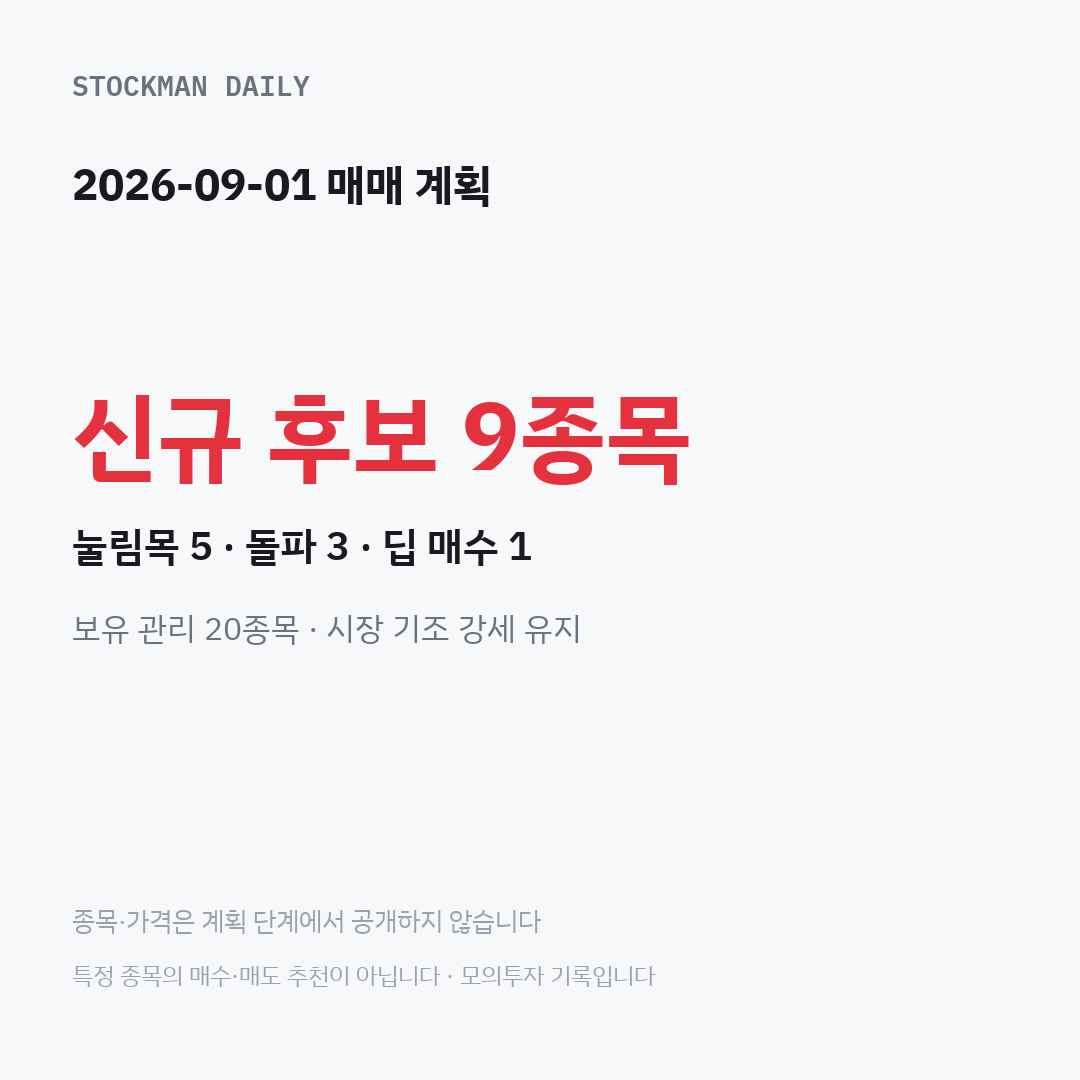
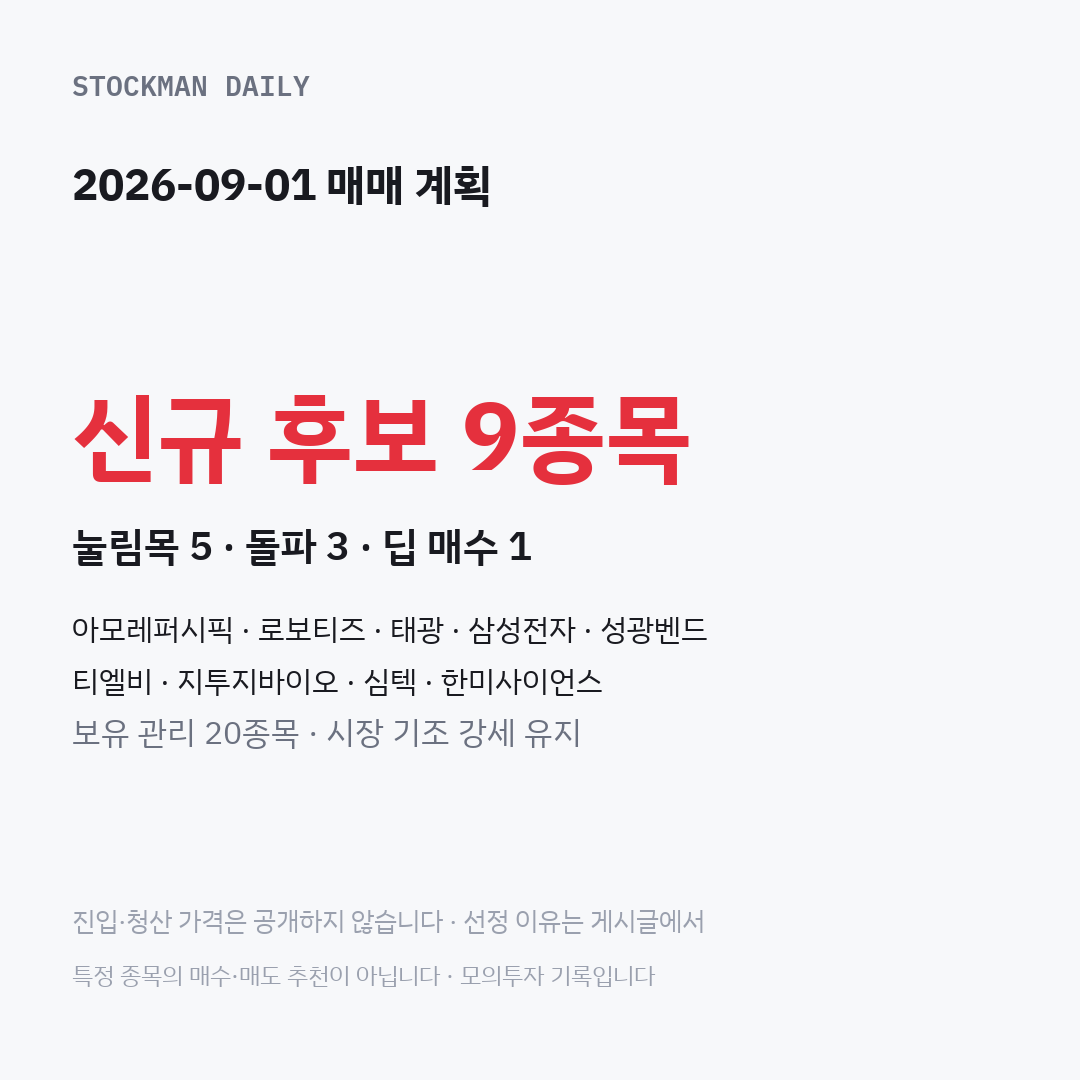
plan: 2026-09-01

diff --git a/plan/2026-09-01.html b/plan/2026-09-01.html
@@ -26,8 +26,8 @@
     <h1>2026-09-01 매매 계획</h1>
     <img src="img/2026-09-01.png" alt="2026-09-01 매매 계획 카드">
     <p>2026-09-01 매매 계획이 준비됐습니다.</p>
-    <p>신규 후보 9종목 — 눌림목 5 · 돌파 3 · 딥 매수 1<br>보유 관리 20종목 · 시장 기조 강세 유지</p>
-    <p>종목과 가격은 계획 단계에서 공개하지 않습니다. 결과는 청산 복기 영상으로 확인해 주세요.</p>
+    <p>신규 후보 9종목 — 눌림목 5 · 돌파 3 · 딥 매수 1<br>- 아모레퍼시픽 (눌림목): 전날 종가보다 깊이 밀릴 때만 받도록 낮게 걸어둔 기준 매수<br>- 로보티즈 (돌파): 전날 고가를 넘어서는 힘이 확인될 때만 따라붙는 돌파 진입<br>- 태광 (눌림목): 깊은 되돌림 구간에만 걸어둔 기준 매수<br>- 삼성전자 (눌림목): 대형주 기준 진입 — 깊은 되돌림이 올 때만 받는 자리<br>- 성광벤드 (돌파): 오늘 돌파 후보 가운데 실제 돌파 흐름이 확인된 자리<br>- 티엘비 (눌림목): 전날 채워지지 않은 주문을 이어받은 이월 후보<br>- 지투지바이오 (딥 매수): 얕은 조정을 받아내는 오늘 유일한 딥 매수 자리<br>- 심텍 (눌림목): 깊은 되돌림에만 걸어둔 기준 매수<br>- 한미사이언스 (돌파): 전날 고가 바로 위, 좁은 폭의 돌파를 노리는 자리<br>보유 관리 20종목 · 시장 기조 강세 유지</p>
+    <p>진입·청산 가격은 공개하지 않습니다. 결과는 청산 복기 영상으로 확인해 주세요.</p>
     <p>특정 종목의 매수·매도 추천이 아닙니다 · 모의투자 기록입니다 본 채널은 특정 종목의 매수·매도를 추천하지 않습니다.</p>
     <p class="foot">종목·가격은 계획 단계에서 공개하지 않습니다 · 특정 종목의 매수·매도 추천이 아닙니다 · 모의투자 기록입니다</p>
   </div>
